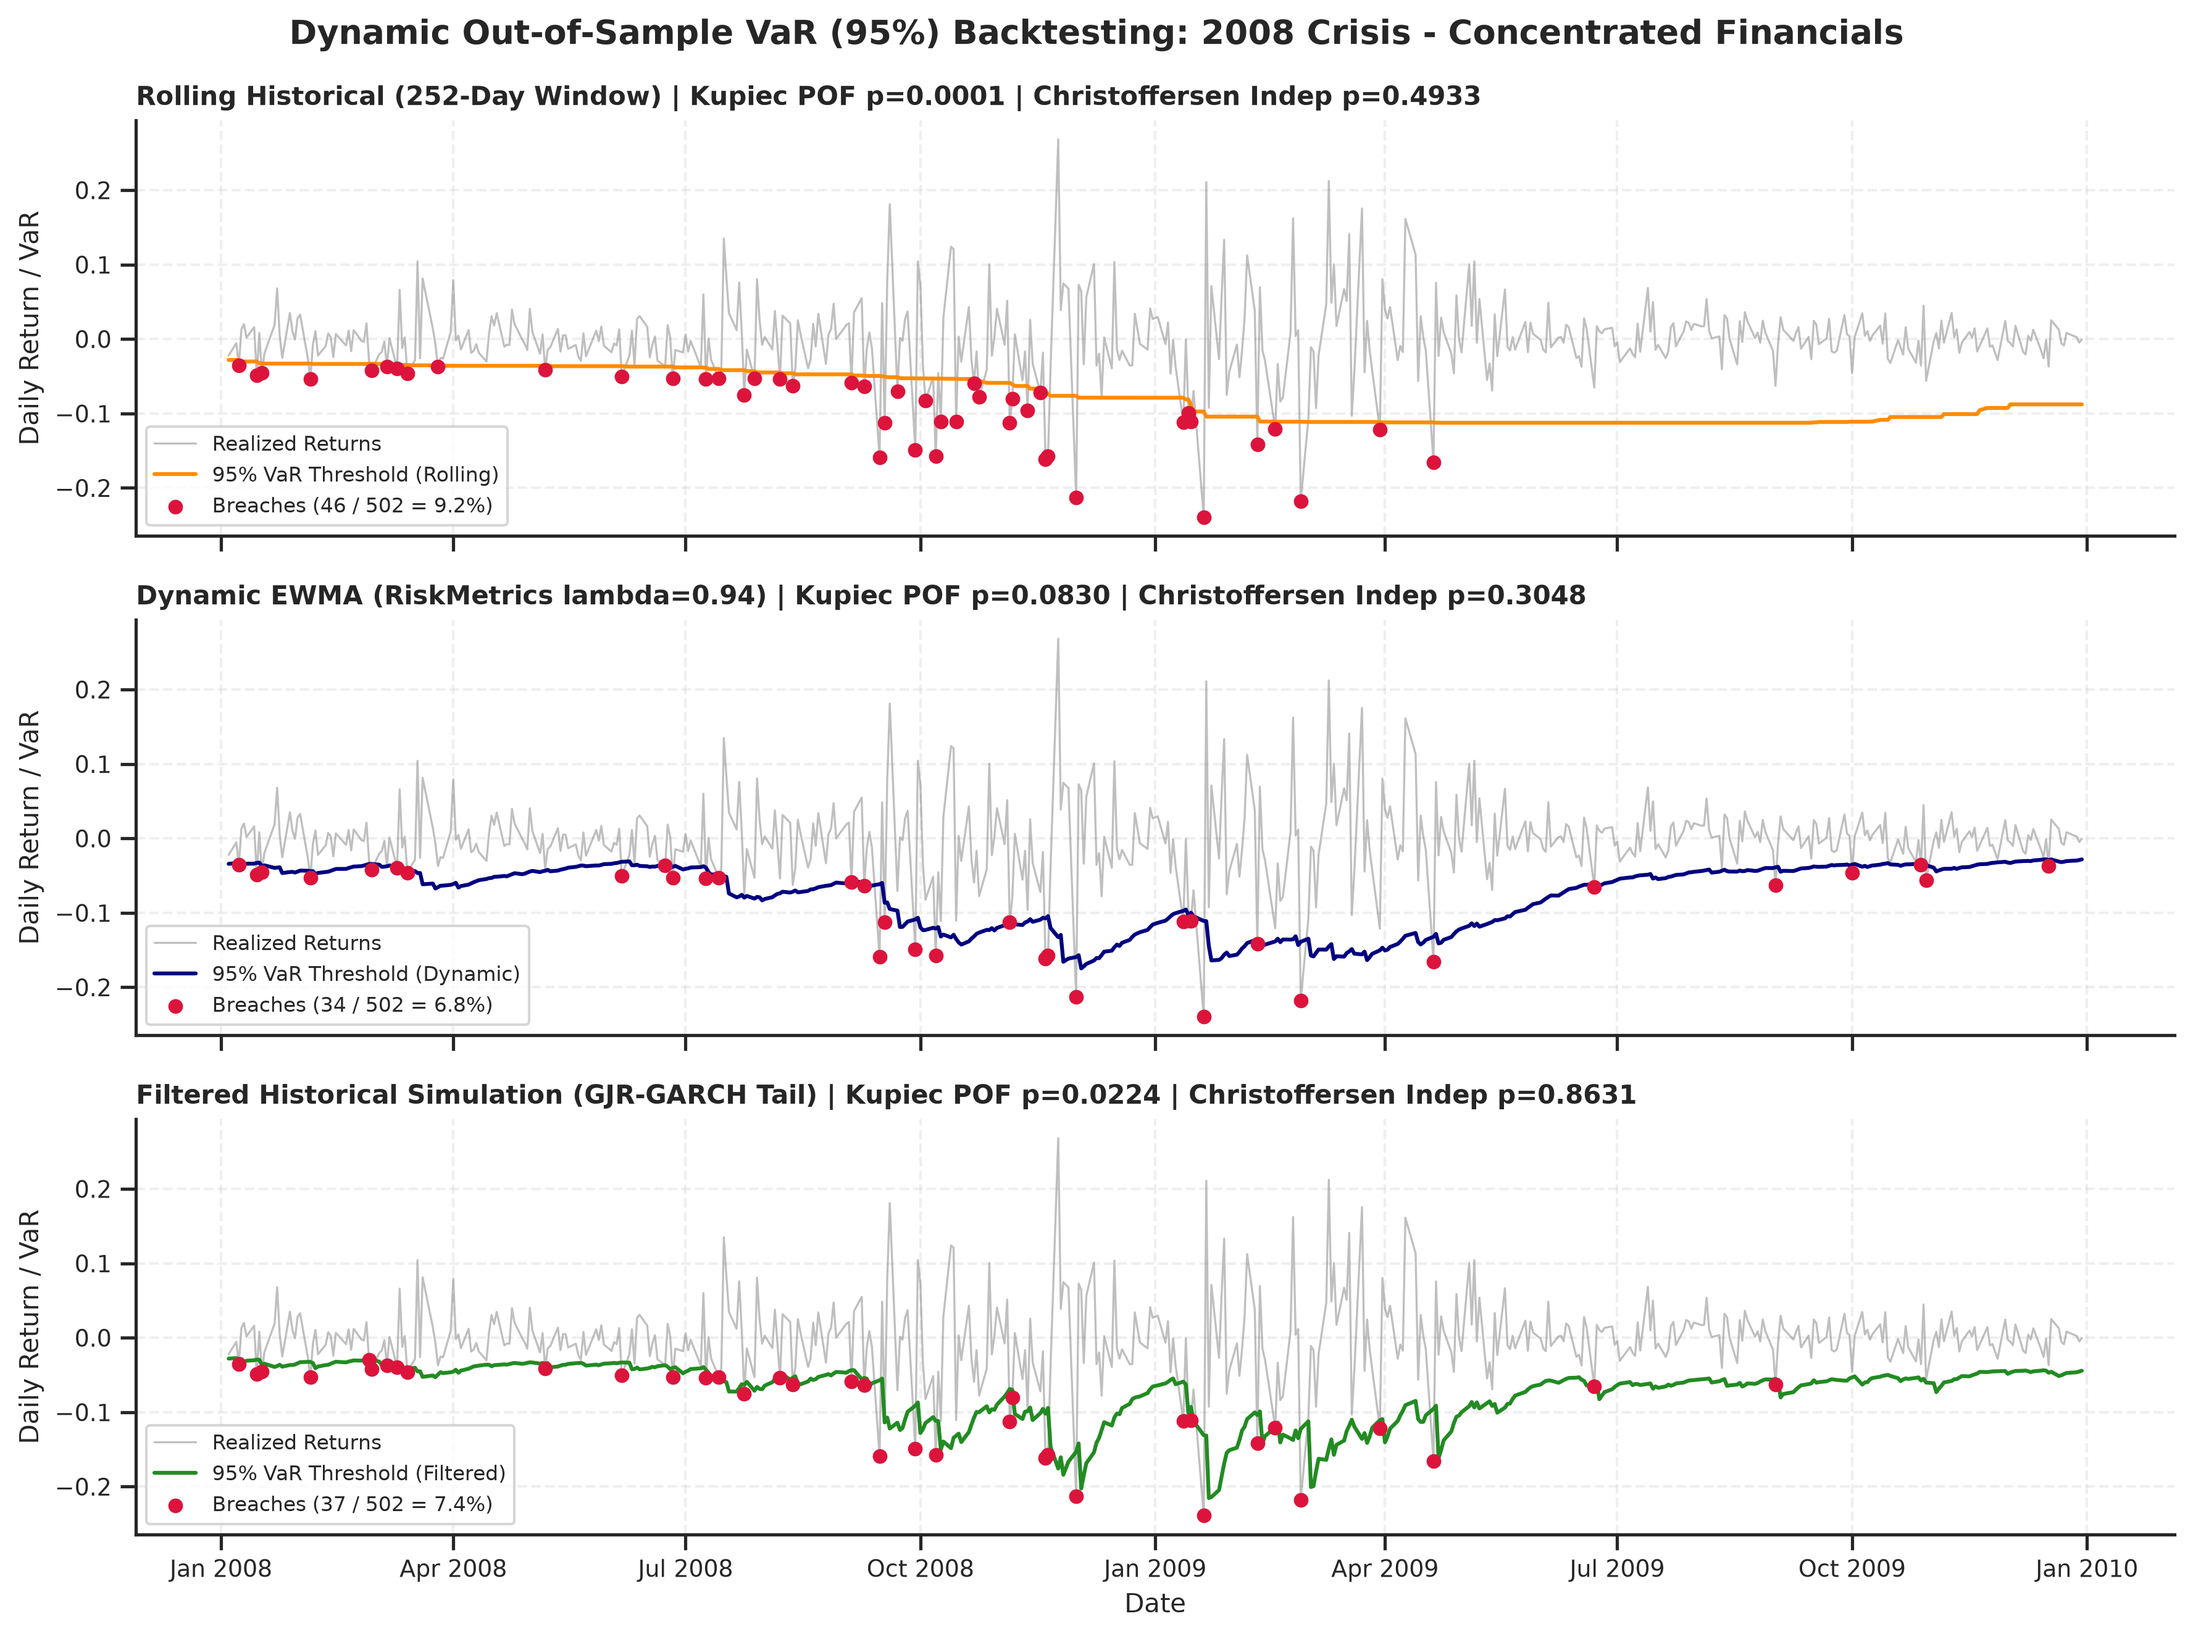
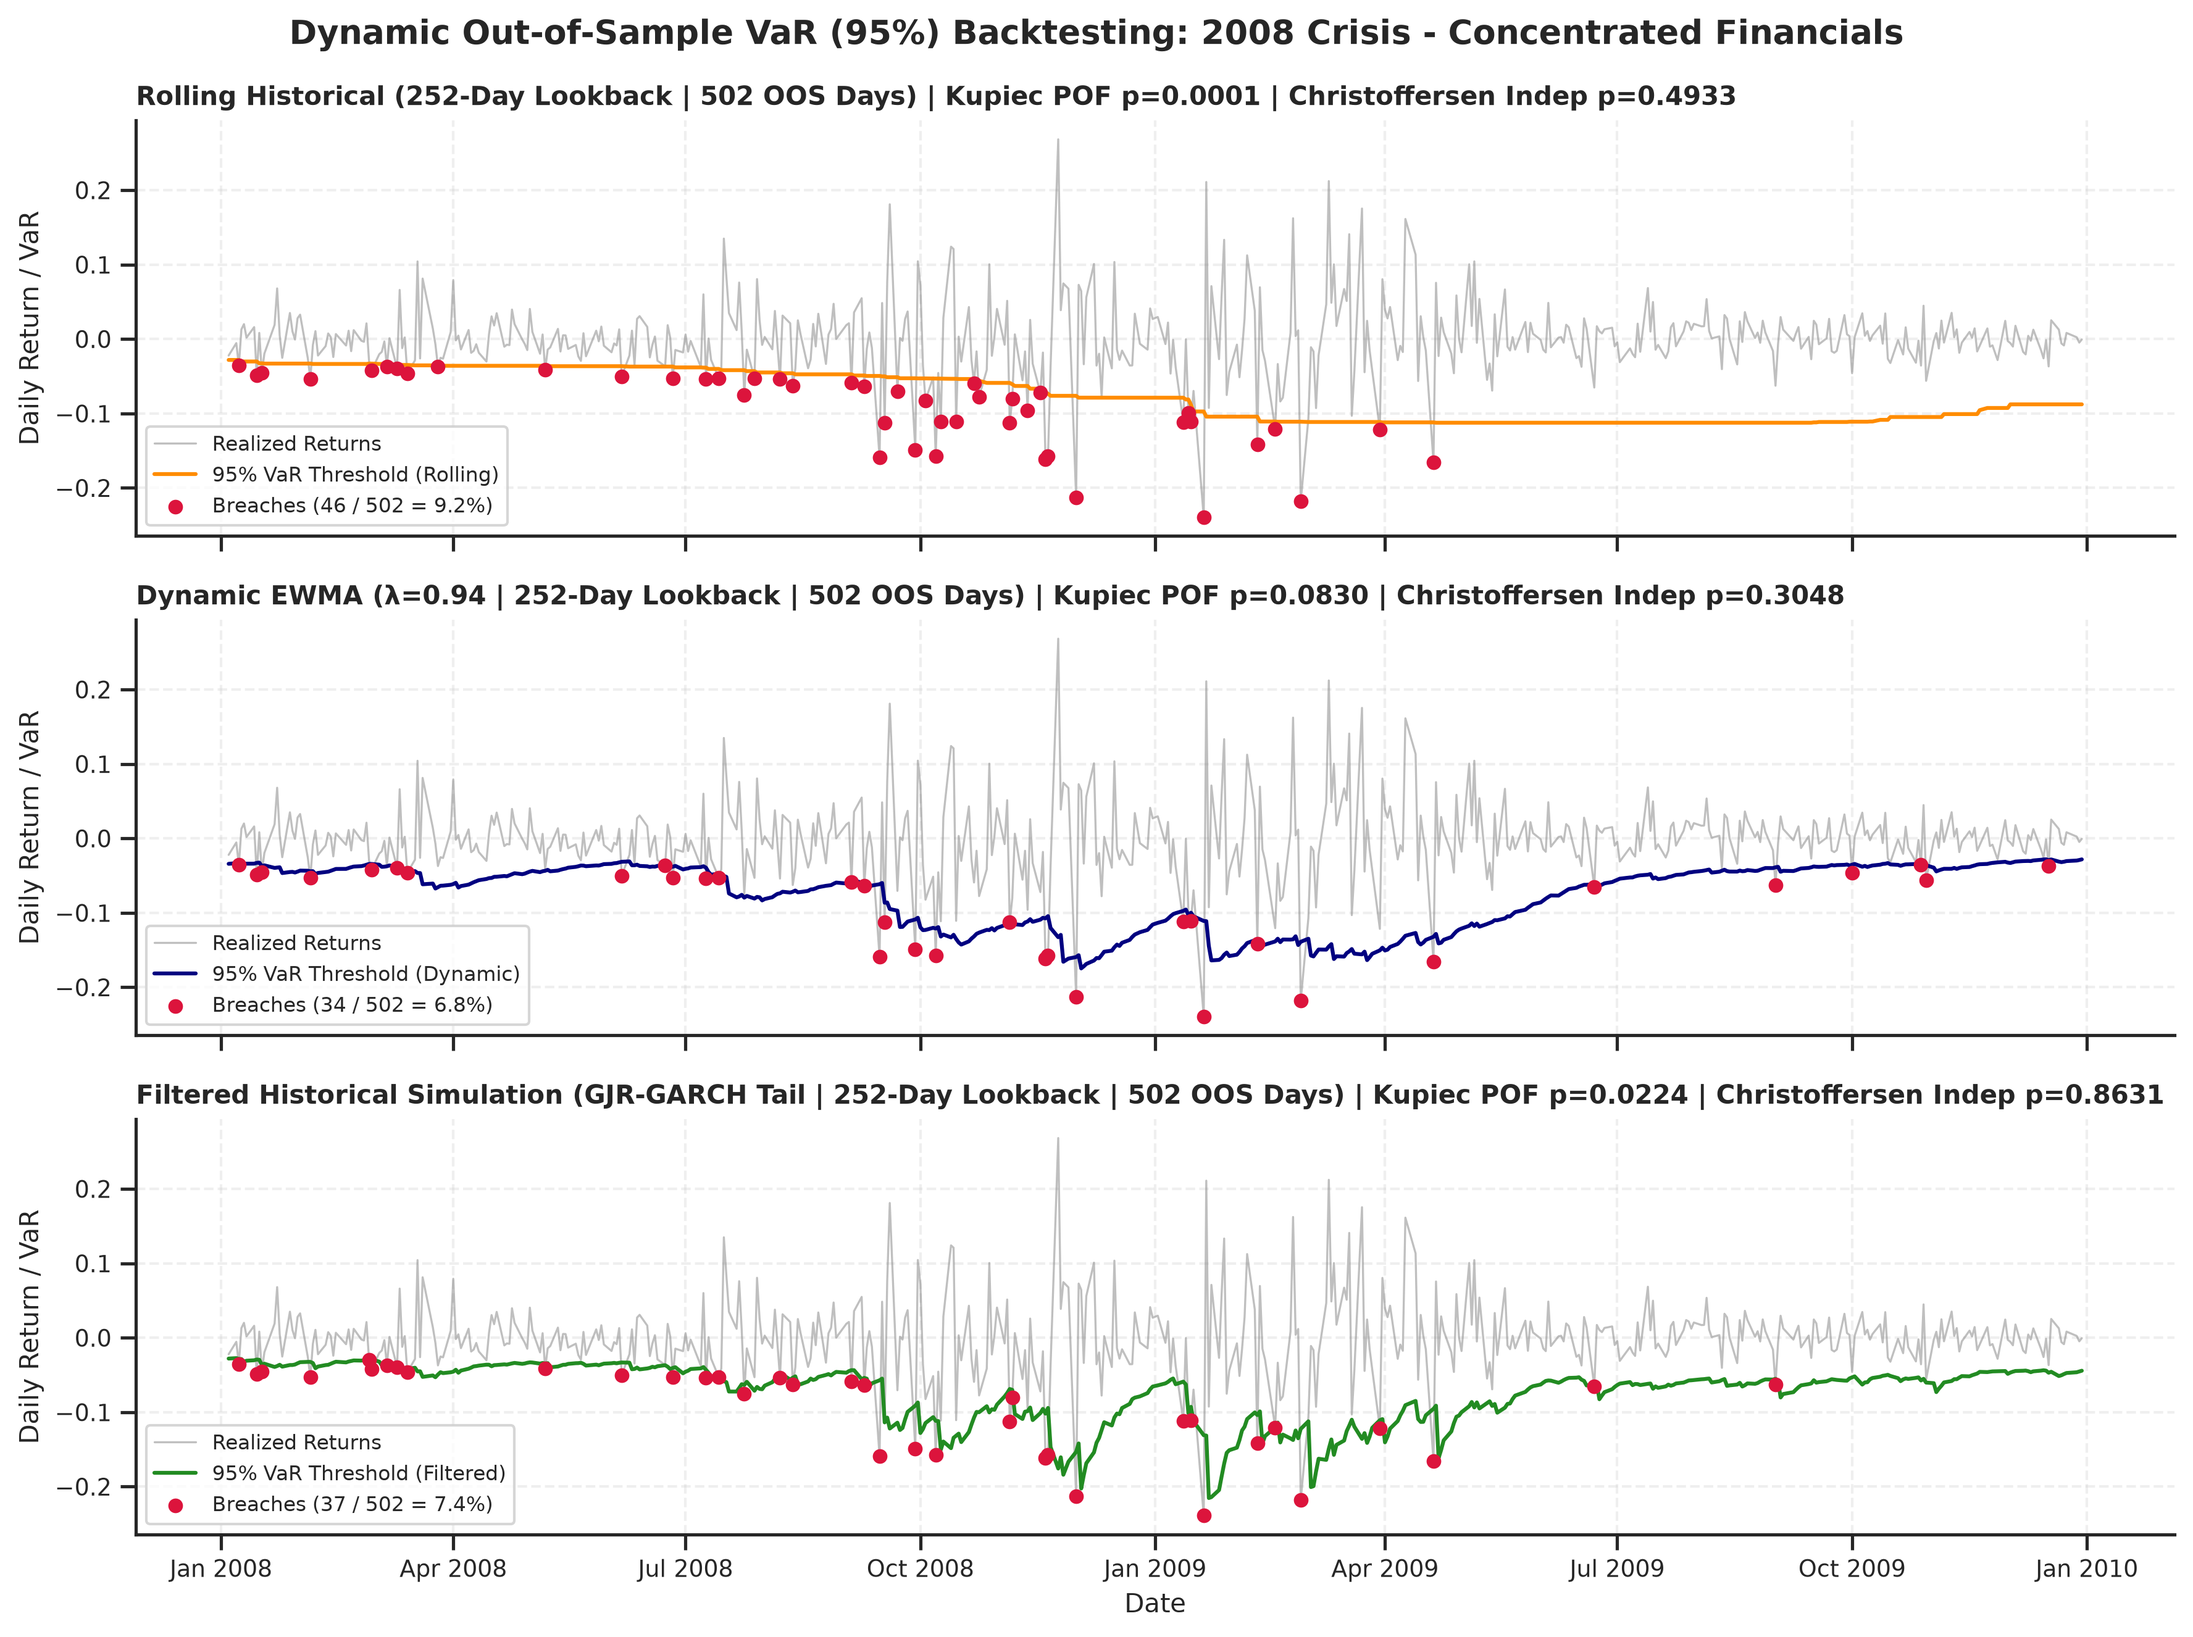
Enhance output visualizations and update descriptive statistics for better clarity and accuracy

Changed region(s): [[0.1875, 0.3401, 0.8438, 0.371], [0.375, 0.6493, 1.0, 0.6802], [0.25, 0.0309, 0.7812, 0.0618]]

diff --git a/main.py b/main.py
@@ -60,10 +60,12 @@ def main() -> None:
             f"     - Breaches:             {hist_bt.total_exceptions} / {hist_bt.total_observations} ({hist_bt.empirical_rate * 100:.2f}%)"
         )
         print(
-            f"     - Kupiec POF:           LR={hist_bt.kupiec_stat:.3f} (p={hist_bt.kupiec_p_value:.4f}) -> {'REJECT H0' if hist_bt.kupiec_reject else 'ACCEPT H0'}"
+            f"     - Kupiec POF:           LR={hist_bt.kupiec_stat:.3f} (p={hist_bt.kupiec_p_value:.4f}) -> "
+            f"{'REJECT H0 (Miscalibrated exception rate)' if hist_bt.kupiec_reject else 'ACCEPT H0 (Accurate calibration)'}"
         )
         print(
-            f"     - Christoffersen Indep: LR={hist_bt.christoffersen_stat:.3f} (p={hist_bt.christoffersen_p_value:.4f}) -> {'REJECT H0' if hist_bt.christoffersen_reject else 'ACCEPT H0'}"
+            f"     - Christoffersen Indep: LR={hist_bt.christoffersen_stat:.3f} (p={hist_bt.christoffersen_p_value:.4f}) -> "
+            f"{'REJECT H0 (Temporal clustering detected)' if hist_bt.christoffersen_reject else 'ACCEPT H0 (Exceptions are independent)'}"
         )
 
         print("  2. Rolling Parametric (Normal):")
@@ -71,10 +73,12 @@ def main() -> None:
             f"     - Breaches:             {param_bt.total_exceptions} / {param_bt.total_observations} ({param_bt.empirical_rate * 100:.2f}%)"
         )
         print(
-            f"     - Kupiec POF:           LR={param_bt.kupiec_stat:.3f} (p={param_bt.kupiec_p_value:.4f}) -> {'REJECT H0' if param_bt.kupiec_reject else 'ACCEPT H0'}"
+            f"     - Kupiec POF:           LR={param_bt.kupiec_stat:.3f} (p={param_bt.kupiec_p_value:.4f}) -> "
+            f"{'REJECT H0 (Miscalibrated exception rate)' if param_bt.kupiec_reject else 'ACCEPT H0 (Accurate calibration)'}"
         )
         print(
-            f"     - Christoffersen Indep: LR={param_bt.christoffersen_stat:.3f} (p={param_bt.christoffersen_p_value:.4f}) -> {'REJECT H0' if param_bt.christoffersen_reject else 'ACCEPT H0'}"
+            f"     - Christoffersen Indep: LR={param_bt.christoffersen_stat:.3f} (p={param_bt.christoffersen_p_value:.4f}) -> "
+            f"{'REJECT H0 (Temporal clustering detected)' if param_bt.christoffersen_reject else 'ACCEPT H0 (Exceptions are independent)'}"
         )
 
         # 3. EWMA Dynamic Volatility Out-of-Sample Backtest
@@ -87,10 +91,12 @@ def main() -> None:
             f"     - Breaches:             {ewma_bt.total_exceptions} / {ewma_bt.total_observations} ({ewma_bt.empirical_rate * 100:.2f}%)"
         )
         print(
-            f"     - Kupiec POF:           LR={ewma_bt.kupiec_stat:.3f} (p={ewma_bt.kupiec_p_value:.4f}) -> {'REJECT H0' if ewma_bt.kupiec_reject else 'ACCEPT H0'}"
+            f"     - Kupiec POF:           LR={ewma_bt.kupiec_stat:.3f} (p={ewma_bt.kupiec_p_value:.4f}) -> "
+            f"{'REJECT H0 (Miscalibrated exception rate)' if ewma_bt.kupiec_reject else 'ACCEPT H0 (Accurate calibration)'}"
         )
         print(
-            f"     - Christoffersen Indep: LR={ewma_bt.christoffersen_stat:.3f} (p={ewma_bt.christoffersen_p_value:.4f}) -> {'REJECT H0' if ewma_bt.christoffersen_reject else 'ACCEPT H0'}"
+            f"     - Christoffersen Indep: LR={ewma_bt.christoffersen_stat:.3f} (p={ewma_bt.christoffersen_p_value:.4f}) -> "
+            f"{'REJECT H0 (Temporal clustering detected)' if ewma_bt.christoffersen_reject else 'ACCEPT H0 (Exceptions are independent)'}"
         )
 
         # 4. GJR-GARCH(1,1) Asymmetric Dynamic Out-of-Sample Backtest
@@ -101,10 +107,12 @@ def main() -> None:
             f"     - Breaches:             {garch_bt.total_exceptions} / {garch_bt.total_observations} ({garch_bt.empirical_rate * 100:.2f}%)"
         )
         print(
-            f"     - Kupiec POF:           LR={garch_bt.kupiec_stat:.3f} (p={garch_bt.kupiec_p_value:.4f}) -> {'REJECT H0' if garch_bt.kupiec_reject else 'ACCEPT H0'}"
+            f"     - Kupiec POF:           LR={garch_bt.kupiec_stat:.3f} (p={garch_bt.kupiec_p_value:.4f}) -> "
+            f"{'REJECT H0 (Miscalibrated exception rate)' if garch_bt.kupiec_reject else 'ACCEPT H0 (Accurate calibration)'}"
         )
         print(
-            f"     - Christoffersen Indep: LR={garch_bt.christoffersen_stat:.3f} (p={garch_bt.christoffersen_p_value:.4f}) -> {'REJECT H0' if garch_bt.christoffersen_reject else 'ACCEPT H0'}"
+            f"     - Christoffersen Indep: LR={garch_bt.christoffersen_stat:.3f} (p={garch_bt.christoffersen_p_value:.4f}) -> "
+            f"{'REJECT H0 (Temporal clustering detected)' if garch_bt.christoffersen_reject else 'ACCEPT H0 (Exceptions are independent)'}"
         )
 
         # 5. Filtered Historical Simulation (FHS - GJR-GARCH + Empirical Tail)
@@ -115,11 +123,14 @@ def main() -> None:
             f"     - Breaches:             {fhs_bt.total_exceptions} / {fhs_bt.total_observations} ({fhs_bt.empirical_rate * 100:.2f}%)"
         )
         print(
-            f"     - Kupiec POF:           LR={fhs_bt.kupiec_stat:.3f} (p={fhs_bt.kupiec_p_value:.4f}) -> {'REJECT H0' if fhs_bt.kupiec_reject else 'ACCEPT H0'}"
+            f"     - Kupiec POF:           LR={fhs_bt.kupiec_stat:.3f} (p={fhs_bt.kupiec_p_value:.4f}) -> "
+            f"{'REJECT H0 (Miscalibrated exception rate)' if fhs_bt.kupiec_reject else 'ACCEPT H0 (Accurate calibration)'}"
         )
         print(
-            f"     - Christoffersen Indep: LR={fhs_bt.christoffersen_stat:.3f} (p={fhs_bt.christoffersen_p_value:.4f}) -> {'REJECT H0' if fhs_bt.christoffersen_reject else 'ACCEPT H0'}"
+            f"     - Christoffersen Indep: LR={fhs_bt.christoffersen_stat:.3f} (p={fhs_bt.christoffersen_p_value:.4f}) -> "
+            f"{'REJECT H0 (Temporal clustering detected)' if fhs_bt.christoffersen_reject else 'ACCEPT H0 (Exceptions are independent)'}"
         )
+
         # Generate Publication-Grade Diagnostic Charts
         from stress_engine.visualization import plot_var_backtest_diagnostics
 

diff --git a/src/stress_engine/visualization.py b/src/stress_engine/visualization.py
@@ -80,10 +80,20 @@ def plot_var_backtest_diagnostics(
     )
 
     models = [
-        ("Rolling Historical (252-Day Window)", hist_thresholds, hist_bt, "darkorange"),
-        ("Dynamic EWMA (RiskMetrics lambda=0.94)", ewma_thresholds, ewma_bt, "navy"),
         (
-            "Filtered Historical Simulation (GJR-GARCH Tail)",
+            "Rolling Historical (252-Day Lookback | 502 OOS Days)",
+            hist_thresholds,
+            hist_bt,
+            "darkorange",
+        ),
+        (
+            "Dynamic EWMA (λ=0.94 | 252-Day Lookback | 502 OOS Days)",
+            ewma_thresholds,
+            ewma_bt,
+            "navy",
+        ),
+        (
+            "Filtered Historical Simulation (GJR-GARCH Tail | 252-Day Lookback | 502 OOS Days)",
             fhs_thresholds,
             fhs_bt,
             "forestgreen",
